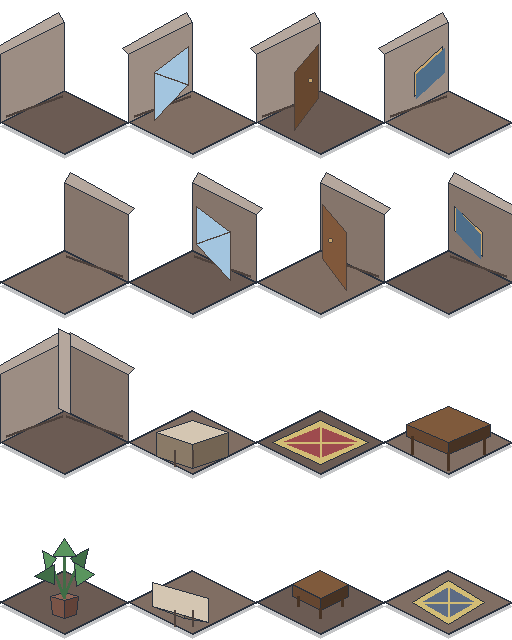
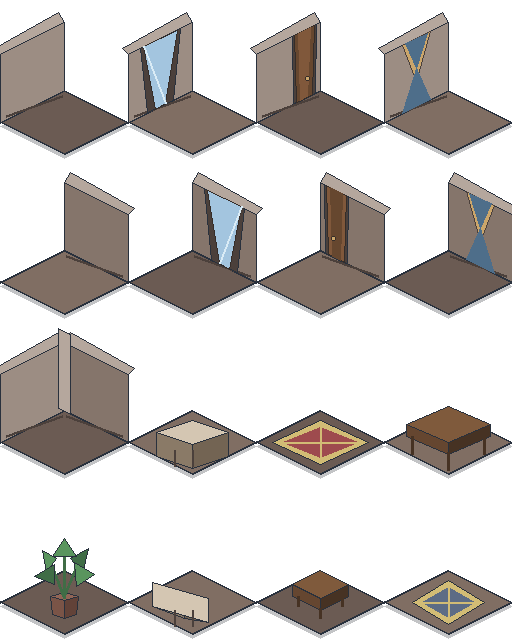
Make wall inserts flush

diff --git a/task-records/2026-04-21-23-58-flush-wall-inserts/generate_room_structure_tilesheet.py b/task-records/2026-04-21-23-58-flush-wall-inserts/generate_room_structure_tilesheet.py
@@ -1,0 +1,372 @@
+from pathlib import Path
+
+from PIL import Image, ImageDraw
+
+
+CELL_W = 128
+CELL_H = 160
+COLS = 4
+ROWS = 4
+SHEET_W = CELL_W * COLS
+SHEET_H = CELL_H * ROWS
+BASE_CENTER_X = CELL_W // 2
+BASE_TOP_Y = 90
+HALF_W = 64
+HALF_H = 32
+BASE_CENTER_Y = BASE_TOP_Y + HALF_H
+BASE_BOTTOM_Y = BASE_CENTER_Y + HALF_H
+WALL_H = 68
+
+OUT = Path("assets/tiles/interiors/room_structure_tilesheet.png")
+OUT.parent.mkdir(parents=True, exist_ok=True)
+
+
+def rgba(hex_color: str, alpha: int = 255) -> tuple[int, int, int, int]:
+    value = hex_color.lstrip("#")
+    return tuple(int(value[i : i + 2], 16) for i in (0, 2, 4)) + (alpha,)
+
+
+P = {
+    "outline": rgba("#17202D", 235),
+    "shadow": rgba("#10151D", 64),
+    "floor_a": rgba("#6B5B53"),
+    "floor_b": rgba("#806E63"),
+    "wall_left": rgba("#9C8D83"),
+    "wall_right": rgba("#85756B"),
+    "wall_top": rgba("#B5A79D"),
+    "trim": rgba("#4B403B"),
+    "trim_dark": rgba("#352D29"),
+    "window_glass": rgba("#8FB8D8", 210),
+    "window_hi": rgba("#CAE4F2", 180),
+    "door": rgba("#66472F"),
+    "door_panel": rgba("#80583B"),
+    "counter_top": rgba("#D4C6B2"),
+    "counter_left": rgba("#8A7A67"),
+    "counter_right": rgba("#736453"),
+    "rug_main": rgba("#9E4B4E"),
+    "rug_trim": rgba("#D2BC75"),
+    "table_top": rgba("#7F5A3C"),
+    "table_side": rgba("#654630"),
+    "table_leg": rgba("#463223"),
+    "frame": rgba("#CBA66B"),
+    "art": rgba("#4E6E8A"),
+    "pot": rgba("#7A5447"),
+    "leaf_dark": rgba("#406D46"),
+    "leaf_light": rgba("#5A955E"),
+}
+
+
+img = Image.new("RGBA", (SHEET_W, SHEET_H), (0, 0, 0, 0))
+
+
+def offset(points, ox, oy):
+    return [(int(round(x + ox)), int(round(y + oy))) for x, y in points]
+
+
+def draw_poly(draw, pts, fill, outline=P["outline"]):
+    draw.polygon(pts, fill=fill, outline=outline)
+
+
+def quad_from_lerp(quad, top_start, top_end, bottom_end, bottom_start):
+    a, b, c, d = quad
+
+    def lerp(p1, p2, t):
+        return (p1[0] + (p2[0] - p1[0]) * t, p1[1] + (p2[1] - p1[1]) * t)
+
+    return [
+        lerp(a, b, top_start),
+        lerp(a, b, top_end),
+        lerp(d, c, bottom_end),
+        lerp(d, c, bottom_start),
+    ]
+
+
+def inset_quad(quad, inset_top, inset_side, inset_bottom):
+    return quad_from_lerp(
+        quad,
+        inset_side,
+        1.0 - inset_side,
+        1.0 - inset_side - inset_bottom,
+        inset_side + inset_bottom,
+    )
+
+
+def base_points():
+    return [
+        (BASE_CENTER_X, BASE_TOP_Y),
+        (BASE_CENTER_X + HALF_W, BASE_CENTER_Y),
+        (BASE_CENTER_X, BASE_BOTTOM_Y),
+        (BASE_CENTER_X - HALF_W, BASE_CENTER_Y),
+    ]
+
+
+def left_wall_face():
+    return [
+        (BASE_CENTER_X - HALF_W, BASE_CENTER_Y - WALL_H),
+        (BASE_CENTER_X, BASE_TOP_Y - WALL_H),
+        (BASE_CENTER_X, BASE_TOP_Y),
+        (BASE_CENTER_X - HALF_W, BASE_CENTER_Y),
+    ]
+
+
+def right_wall_face():
+    return [
+        (BASE_CENTER_X, BASE_TOP_Y - WALL_H),
+        (BASE_CENTER_X + HALF_W, BASE_CENTER_Y - WALL_H),
+        (BASE_CENTER_X + HALF_W, BASE_CENTER_Y),
+        (BASE_CENTER_X, BASE_TOP_Y),
+    ]
+
+
+def draw_base_floor(draw, ox, oy, alt=False):
+    pts = offset(base_points(), ox, oy)
+    shadow = [(x, y + 4) for x, y in pts]
+    draw_poly(draw, shadow, P["shadow"], None)
+    draw_poly(draw, pts, P["floor_b" if alt else "floor_a"])
+    draw.line([pts[3], pts[0], pts[1], pts[2], pts[3]], fill=P["outline"], width=2)
+
+
+def draw_left_face_insert(draw, ox, oy, variant):
+    face = left_wall_face()
+    panel = inset_quad(face, 0.26, 0.22, 0.16)
+    panel_pts = offset(panel, ox, oy)
+
+    if variant == "window":
+        frame_pts = offset(inset_quad(face, 0.23, 0.18, 0.12), ox, oy)
+        glass_pts = offset(inset_quad(face, 0.29, 0.24, 0.18), ox, oy)
+        draw_poly(draw, frame_pts, P["trim"])
+        draw_poly(draw, glass_pts, P["window_glass"], P["trim_dark"])
+        draw.line([glass_pts[0], glass_pts[2]], fill=P["window_hi"], width=2)
+    elif variant == "door":
+        jamb_pts = offset(quad_from_lerp(face, 0.56, 0.94, 0.92, 0.58), ox, oy)
+        door_pts = offset(quad_from_lerp(face, 0.60, 0.90, 0.88, 0.62), ox, oy)
+        draw_poly(draw, jamb_pts, P["trim"])
+        draw_poly(draw, door_pts, P["door"], P["trim_dark"])
+        panel = offset(quad_from_lerp(face, 0.66, 0.84, 0.80, 0.68), ox, oy)
+        draw_poly(draw, panel, P["door_panel"], None)
+        knob = (door_pts[1][0] - 7, door_pts[2][1] - 16)
+        draw.ellipse([knob[0] - 2, knob[1] - 2, knob[0] + 2, knob[1] + 2], fill=P["frame"], outline=P["trim_dark"])
+    elif variant == "picture":
+        frame_pts = offset(inset_quad(face, 0.22, 0.28, 0.34), ox, oy)
+        art_pts = offset(inset_quad(face, 0.27, 0.33, 0.39), ox, oy)
+        draw_poly(draw, frame_pts, P["frame"], P["trim"])
+        draw_poly(draw, art_pts, P["art"], None)
+    else:
+        draw_poly(draw, panel_pts, P["wall_left"], None)
+
+
+def draw_right_face_insert(draw, ox, oy, variant):
+    face = right_wall_face()
+    panel = inset_quad(face, 0.26, 0.22, 0.16)
+    panel_pts = offset(panel, ox, oy)
+
+    if variant == "window":
+        frame_pts = offset(inset_quad(face, 0.23, 0.18, 0.12), ox, oy)
+        glass_pts = offset(inset_quad(face, 0.29, 0.24, 0.18), ox, oy)
+        draw_poly(draw, frame_pts, P["trim"])
+        draw_poly(draw, glass_pts, P["window_glass"], P["trim_dark"])
+        draw.line([glass_pts[1], glass_pts[3]], fill=P["window_hi"], width=2)
+    elif variant == "door":
+        jamb_pts = offset(quad_from_lerp(face, 0.06, 0.44, 0.42, 0.08), ox, oy)
+        door_pts = offset(quad_from_lerp(face, 0.10, 0.40, 0.38, 0.12), ox, oy)
+        draw_poly(draw, jamb_pts, P["trim"])
+        draw_poly(draw, door_pts, P["door_panel"], P["trim_dark"])
+        panel = offset(quad_from_lerp(face, 0.16, 0.34, 0.32, 0.18), ox, oy)
+        draw_poly(draw, panel, P["door"], None)
+        knob = (door_pts[0][0] + 7, door_pts[3][1] - 16)
+        draw.ellipse([knob[0] - 2, knob[1] - 2, knob[0] + 2, knob[1] + 2], fill=P["frame"], outline=P["trim_dark"])
+    elif variant == "picture":
+        frame_pts = offset(inset_quad(face, 0.22, 0.28, 0.34), ox, oy)
+        art_pts = offset(inset_quad(face, 0.27, 0.33, 0.39), ox, oy)
+        draw_poly(draw, frame_pts, P["frame"], P["trim"])
+        draw_poly(draw, art_pts, P["art"], None)
+    else:
+        draw_poly(draw, panel_pts, P["wall_right"], None)
+
+
+def draw_upper_left_wall(draw, ox, oy, variant="plain"):
+    face = left_wall_face()
+    cap = [
+        (BASE_CENTER_X - HALF_W, BASE_CENTER_Y - WALL_H),
+        (BASE_CENTER_X, BASE_TOP_Y - WALL_H),
+        (BASE_CENTER_X - 6, BASE_TOP_Y - WALL_H - 10),
+        (BASE_CENTER_X - HALF_W - 6, BASE_CENTER_Y - WALL_H - 6),
+    ]
+    draw_poly(draw, offset(face, ox, oy), P["wall_left"])
+    draw_poly(draw, offset(cap, ox, oy), P["wall_top"])
+    draw.line(offset([(BASE_CENTER_X - HALF_W + 6, BASE_CENTER_Y - 6), (BASE_CENTER_X - 2, BASE_TOP_Y + 6)], ox, oy), fill=P["trim"], width=3)
+    if variant != "plain":
+        draw_left_face_insert(draw, ox, oy, variant)
+
+
+def draw_upper_right_wall(draw, ox, oy, variant="plain"):
+    face = right_wall_face()
+    cap = [
+        (BASE_CENTER_X, BASE_TOP_Y - WALL_H),
+        (BASE_CENTER_X + HALF_W, BASE_CENTER_Y - WALL_H),
+        (BASE_CENTER_X + HALF_W + 6, BASE_CENTER_Y - WALL_H - 6),
+        (BASE_CENTER_X + 6, BASE_TOP_Y - WALL_H - 10),
+    ]
+    draw_poly(draw, offset(face, ox, oy), P["wall_right"])
+    draw_poly(draw, offset(cap, ox, oy), P["wall_top"])
+    draw.line(offset([(BASE_CENTER_X + 2, BASE_TOP_Y + 6), (BASE_CENTER_X + HALF_W - 6, BASE_CENTER_Y - 6)], ox, oy), fill=P["trim"], width=3)
+    if variant != "plain":
+        draw_right_face_insert(draw, ox, oy, variant)
+
+
+def draw_corner_wall(draw, ox, oy):
+    draw_upper_left_wall(draw, ox, oy, "plain")
+    draw_upper_right_wall(draw, ox, oy, "plain")
+    pillar = offset(
+        [
+            (BASE_CENTER_X - 6, BASE_TOP_Y - WALL_H - 14),
+            (BASE_CENTER_X + 6, BASE_TOP_Y - WALL_H - 8),
+            (BASE_CENTER_X + 6, BASE_TOP_Y + 4),
+            (BASE_CENTER_X - 6, BASE_TOP_Y - 2),
+        ],
+        ox,
+        oy,
+    )
+    draw_poly(draw, pillar, P["wall_top"])
+
+
+def draw_rug(draw, ox, oy, accent=False):
+    outer = offset(
+        [
+            (BASE_CENTER_X, BASE_TOP_Y + 10),
+            (BASE_CENTER_X + (36 if accent else 48), BASE_CENTER_Y),
+            (BASE_CENTER_X, BASE_BOTTOM_Y - 10),
+            (BASE_CENTER_X - (36 if accent else 48), BASE_CENTER_Y),
+        ],
+        ox,
+        oy,
+    )
+    inner = offset(
+        [
+            (BASE_CENTER_X, BASE_TOP_Y + 16),
+            (BASE_CENTER_X + (28 if accent else 40), BASE_CENTER_Y),
+            (BASE_CENTER_X, BASE_BOTTOM_Y - 16),
+            (BASE_CENTER_X - (28 if accent else 40), BASE_CENTER_Y),
+        ],
+        ox,
+        oy,
+    )
+    main = rgba("#5D6C85") if accent else P["rug_main"]
+    draw_poly(draw, outer, P["rug_trim"])
+    draw_poly(draw, inner, main, P["rug_trim"])
+    draw.line([inner[3], inner[1]], fill=P["rug_trim"], width=2)
+    draw.line([inner[0], inner[2]], fill=P["rug_trim"], width=2)
+
+
+def draw_table(draw, ox, oy, small=False):
+    top_w = 28 if small else 42
+    top_h = 14 if small else 18
+    top_y = BASE_CENTER_Y - 18
+    top = offset(
+        [
+            (BASE_CENTER_X, top_y - top_h),
+            (BASE_CENTER_X + top_w, top_y),
+            (BASE_CENTER_X, top_y + top_h),
+            (BASE_CENTER_X - top_w, top_y),
+        ],
+        ox,
+        oy,
+    )
+    left = offset(
+        [
+            (BASE_CENTER_X - top_w, top_y),
+            (BASE_CENTER_X, top_y + top_h),
+            (BASE_CENTER_X, top_y + top_h + 12),
+            (BASE_CENTER_X - top_w, top_y + 12),
+        ],
+        ox,
+        oy,
+    )
+    right = offset(
+        [
+            (BASE_CENTER_X, top_y + top_h),
+            (BASE_CENTER_X + top_w, top_y),
+            (BASE_CENTER_X + top_w, top_y + 12),
+            (BASE_CENTER_X, top_y + top_h + 12),
+        ],
+        ox,
+        oy,
+    )
+    draw_poly(draw, left, P["table_side"])
+    draw_poly(draw, right, P["table_leg"])
+    draw_poly(draw, top, P["table_top"])
+    legs = [(-top_w + 6, top_y + 12), (top_w - 6, top_y + 12), (0, top_y + top_h + 10)]
+    for lx, ly in legs:
+        draw.line(offset([(BASE_CENTER_X + lx, ly), (BASE_CENTER_X + lx, ly + (18 if not small else 10))], ox, oy), fill=P["table_leg"], width=3)
+
+
+def draw_counter(draw, ox, oy, corner=False):
+    if corner:
+        top = offset([(BASE_CENTER_X - 40, BASE_CENTER_Y - 20), (BASE_CENTER_X + 16, BASE_CENTER_Y - 4), (BASE_CENTER_X + 16, BASE_CENTER_Y + 20), (BASE_CENTER_X - 40, BASE_CENTER_Y + 4)], ox, oy)
+        left = offset([(BASE_CENTER_X - 40, BASE_CENTER_Y - 20), (BASE_CENTER_X - 8, BASE_CENTER_Y - 10), (BASE_CENTER_X - 8, BASE_CENTER_Y + 16), (BASE_CENTER_X - 40, BASE_CENTER_Y + 4)], ox, oy)
+        right = offset([(BASE_CENTER_X - 8, BASE_CENTER_Y - 10), (BASE_CENTER_X + 16, BASE_CENTER_Y - 4), (BASE_CENTER_X + 16, BASE_CENTER_Y + 20), (BASE_CENTER_X - 8, BASE_CENTER_Y + 16)], ox, oy)
+    else:
+        top = offset([(BASE_CENTER_X, BASE_CENTER_Y - 22), (BASE_CENTER_X + 36, BASE_CENTER_Y - 10), (BASE_CENTER_X, BASE_CENTER_Y + 2), (BASE_CENTER_X - 36, BASE_CENTER_Y - 10)], ox, oy)
+        left = offset([(BASE_CENTER_X - 36, BASE_CENTER_Y - 10), (BASE_CENTER_X, BASE_CENTER_Y + 2), (BASE_CENTER_X, BASE_CENTER_Y + 26), (BASE_CENTER_X - 36, BASE_CENTER_Y + 14)], ox, oy)
+        right = offset([(BASE_CENTER_X, BASE_CENTER_Y + 2), (BASE_CENTER_X + 36, BASE_CENTER_Y - 10), (BASE_CENTER_X + 36, BASE_CENTER_Y + 14), (BASE_CENTER_X, BASE_CENTER_Y + 26)], ox, oy)
+    draw_poly(draw, left, P["counter_left"])
+    draw_poly(draw, right, P["counter_right"])
+    draw_poly(draw, top, P["counter_top"])
+    for index in range(2):
+        x = ox + BASE_CENTER_X - 18 + index * 18
+        draw.line([(x, oy + BASE_CENTER_Y + 8), (x, oy + BASE_CENTER_Y + 24)], fill=P["trim"], width=2)
+
+
+def draw_plant(draw, ox, oy):
+    pot_top = offset([(BASE_CENTER_X, BASE_CENTER_Y - 10), (BASE_CENTER_X + 14, BASE_CENTER_Y - 6), (BASE_CENTER_X, BASE_CENTER_Y - 2), (BASE_CENTER_X - 14, BASE_CENTER_Y - 6)], ox, oy)
+    pot_left = offset([(BASE_CENTER_X - 14, BASE_CENTER_Y - 6), (BASE_CENTER_X, BASE_CENTER_Y - 2), (BASE_CENTER_X, BASE_CENTER_Y + 16), (BASE_CENTER_X - 12, BASE_CENTER_Y + 12)], ox, oy)
+    pot_right = offset([(BASE_CENTER_X, BASE_CENTER_Y - 2), (BASE_CENTER_X + 14, BASE_CENTER_Y - 6), (BASE_CENTER_X + 12, BASE_CENTER_Y + 12), (BASE_CENTER_X, BASE_CENTER_Y + 16)], ox, oy)
+    draw_poly(draw, pot_left, P["pot"])
+    draw_poly(draw, pot_right, rgba("#624238"))
+    draw_poly(draw, pot_top, rgba("#926556"))
+    stems = [
+        ((BASE_CENTER_X, BASE_CENTER_Y - 4), (BASE_CENTER_X - 16, BASE_CENTER_Y - 46)),
+        ((BASE_CENTER_X, BASE_CENTER_Y - 6), (BASE_CENTER_X + 18, BASE_CENTER_Y - 50)),
+        ((BASE_CENTER_X, BASE_CENTER_Y - 8), (BASE_CENTER_X, BASE_CENTER_Y - 58)),
+    ]
+    for start, end in stems:
+        draw.line(offset([start, end], ox, oy), fill=P["leaf_dark"], width=3)
+    leaves = [
+        [(BASE_CENTER_X - 22, BASE_CENTER_Y - 52), (BASE_CENTER_X - 8, BASE_CENTER_Y - 44), (BASE_CENTER_X - 18, BASE_CENTER_Y - 30)],
+        [(BASE_CENTER_X + 24, BASE_CENTER_Y - 54), (BASE_CENTER_X + 6, BASE_CENTER_Y - 44), (BASE_CENTER_X + 18, BASE_CENTER_Y - 28)],
+        [(BASE_CENTER_X, BASE_CENTER_Y - 64), (BASE_CENTER_X + 12, BASE_CENTER_Y - 46), (BASE_CENTER_X - 12, BASE_CENTER_Y - 46)],
+        [(BASE_CENTER_X - 10, BASE_CENTER_Y - 38), (BASE_CENTER_X - 30, BASE_CENTER_Y - 26), (BASE_CENTER_X - 10, BASE_CENTER_Y - 18)],
+        [(BASE_CENTER_X + 10, BASE_CENTER_Y - 40), (BASE_CENTER_X + 30, BASE_CENTER_Y - 28), (BASE_CENTER_X + 12, BASE_CENTER_Y - 16)],
+    ]
+    for index, leaf in enumerate(leaves):
+        draw_poly(draw, offset(leaf, ox, oy), P["leaf_light"] if index % 2 == 0 else P["leaf_dark"])
+
+
+def render_tile(index: int, drawer, alt=False):
+    ox = (index % COLS) * CELL_W
+    oy = (index // COLS) * CELL_H
+    draw = ImageDraw.Draw(img)
+    draw_base_floor(draw, ox, oy, alt=alt)
+    drawer(draw, ox, oy)
+
+
+render_tile(0, lambda d, ox, oy: draw_upper_left_wall(d, ox, oy, "plain"))
+render_tile(1, lambda d, ox, oy: draw_upper_left_wall(d, ox, oy, "window"), alt=True)
+render_tile(2, lambda d, ox, oy: draw_upper_left_wall(d, ox, oy, "door"))
+render_tile(3, lambda d, ox, oy: draw_upper_left_wall(d, ox, oy, "picture"), alt=True)
+render_tile(4, lambda d, ox, oy: draw_upper_right_wall(d, ox, oy, "plain"), alt=True)
+render_tile(5, lambda d, ox, oy: draw_upper_right_wall(d, ox, oy, "window"))
+render_tile(6, lambda d, ox, oy: draw_upper_right_wall(d, ox, oy, "door"), alt=True)
+render_tile(7, lambda d, ox, oy: draw_upper_right_wall(d, ox, oy, "picture"))
+render_tile(8, lambda d, ox, oy: draw_corner_wall(d, ox, oy))
+render_tile(9, lambda d, ox, oy: draw_counter(d, ox, oy, False), alt=True)
+render_tile(10, lambda d, ox, oy: draw_rug(d, ox, oy, accent=False))
+render_tile(11, lambda d, ox, oy: draw_table(d, ox, oy, False), alt=True)
+render_tile(12, lambda d, ox, oy: draw_plant(d, ox, oy))
+render_tile(13, lambda d, ox, oy: draw_counter(d, ox, oy, True), alt=True)
+render_tile(14, lambda d, ox, oy: draw_table(d, ox, oy, True))
+render_tile(15, lambda d, ox, oy: draw_rug(d, ox, oy, accent=True), alt=True)
+
+img.save(OUT)
+print(OUT)
+print(f"{SHEET_W}x{SHEET_H}")

diff --git a/task-records/2026-04-21-23-58-flush-wall-inserts/notes.md b/task-records/2026-04-21-23-58-flush-wall-inserts/notes.md
@@ -1,0 +1,13 @@
+Task summary:
+- Fix the interior wall variants so windows, doors, and picture frames sit flush with the wall faces.
+- Preserve the current wall taxonomy, atlas layout, furniture art, and furnished scene usage.
+- Save the updated Pillow generator script with the task record for future regeneration.
+
+Implementation notes:
+- Asset path: `assets/tiles/interiors/room_structure_tilesheet.png`
+- Generator script: `task-records/2026-04-21-23-58-flush-wall-inserts/generate_room_structure_tilesheet.py`
+
+Flush-wall approach:
+- Redraw the wall inserts as inset or mounted panels inside the wall-face boundaries instead of as free-floating foreground quads.
+- Add visible wall borders around windows, doors, and picture frames so the pieces read as part of the wall plane.
+- Keep atlas coordinates stable so the furnished test scene does not need another layout remap.

diff --git a/task-records/2026-04-21-23-58-flush-wall-inserts/original-prompt.md b/task-records/2026-04-21-23-58-flush-wall-inserts/original-prompt.md
@@ -1,0 +1,1 @@
+There seems to be an issues with how the window, doors, and pictures are on the wall. They are kind of just hanging off the wall rather than being flush with the wall as if they are on or part of the wall. Can you make this fix?
